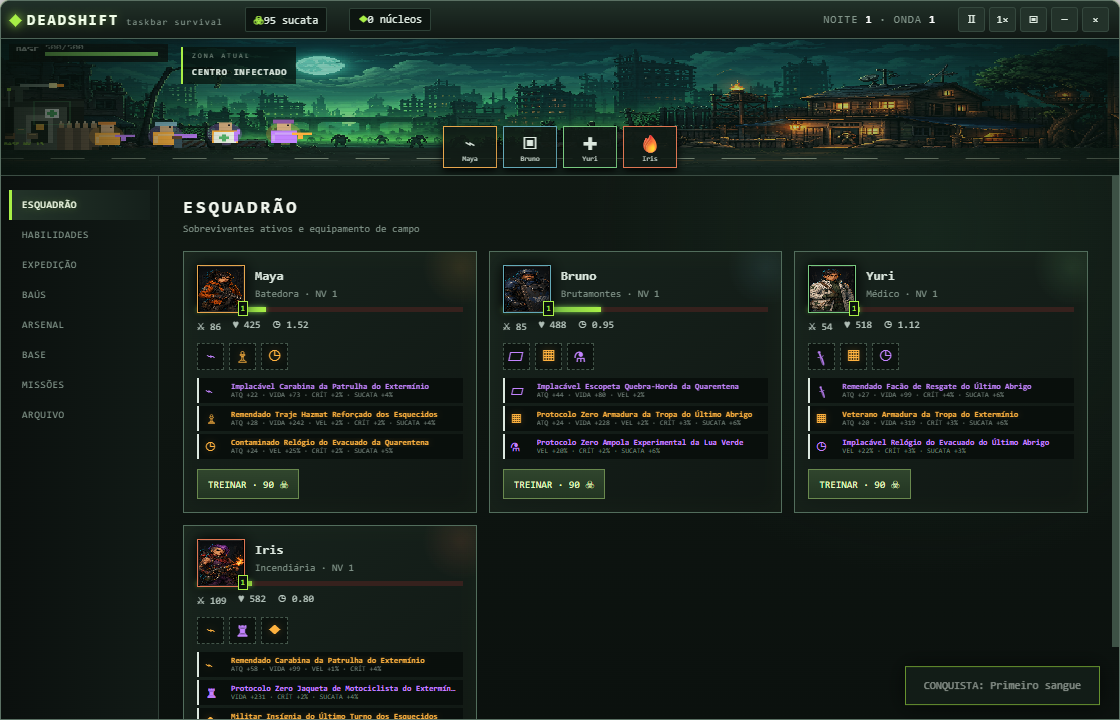
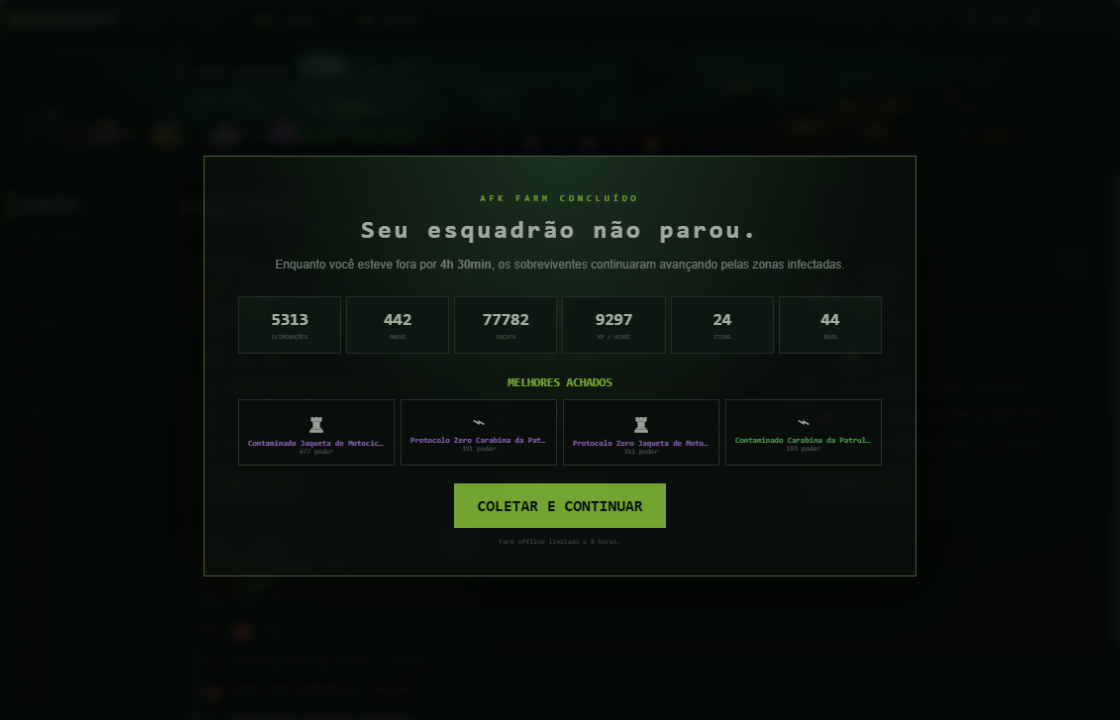
add complete offline farming

diff --git a/src/game.js b/src/game.js
@@ -66,7 +66,10 @@ else p.innerHTML=`<h2>ARQUIVO DA QUARENTENA</h2><div class="two-col"><div><h3>ES
 function openChest(tier){if(!S.chests[tier])return;S.chests[tier]--;let amount=tier==='outbreak'?4:tier==='military'?3:2,items=[];for(let n=0;n<amount;n++){let item=LootSystem.generate({level:S.night*3+S.wave,pity:tier==='military'?10:0,boss:tier==='outbreak'});S.inventory.unshift(item);items.push(item)}S.inventory=S.inventory.slice(0,60);renderPanel('chests');let result=$('#chest-result');result.innerHTML=`<div class="chest-reveal"><h3>CONTEÚDO RECUPERADO</h3>${items.map((i,n)=>`<div class="reveal-item rarity-${i.rarity}" style="animation-delay:${n*.16}s"><span>${i.icon}</span><b class="${i.rarity}">${i.name}</b><small>${i.power} poder · ${i.rarityLabel}</small></div>`).join('')}</div>`;toast(`${amount} itens adicionados ao arsenal`)}
 function bindPanel(){document.querySelectorAll('[data-unlock]').forEach(b=>b.onclick=()=>{let h=heroes.find(x=>x.id===b.dataset.unlock);if(S.scrap>=h.cost){S.scrap-=h.cost;S.unlocked.push(h.id);S.selectedHero=h.id;renderAbilities();toast(`${h.name} entrou no esquadrão`);renderPanel()}});document.querySelectorAll('[data-level]').forEach(b=>b.onclick=()=>{let h=heroes.find(x=>x.id===b.dataset.level),c=h.level*90;if(S.scrap>=c){S.scrap-=c;h.level++;h.atk+=2;h.maxHp+=12;h.hp=h.maxHp;S.skillPoints[h.id]=(S.skillPoints[h.id]||0)+1;renderPanel()}});document.querySelectorAll('[data-upgrade]').forEach(b=>b.onclick=()=>{let id=b.dataset.upgrade,c=(S.upgrades[id]+1)*350;if(S.scrap>=c){S.scrap-=c;S.upgrades[id]++;if(id==='walls'){S.maxBaseHp+=100;S.baseHp+=100}renderPanel()}});document.querySelectorAll('[data-select-hero]').forEach(b=>b.onclick=()=>{S.selectedHero=b.dataset.selectHero;renderPanel('arsenal')});document.querySelectorAll('[data-select-skill-hero]').forEach(b=>b.onclick=()=>{S.selectedHero=b.dataset.selectSkillHero;renderPanel('skills')});document.querySelectorAll('[data-buy-talent]').forEach(b=>b.onclick=()=>{let [h,n]=b.dataset.buyTalent.split(':');if(Progression.buyHero(S,h,n)){toast('Talento aprimorado');renderPanel('skills')}});document.querySelectorAll('[data-buy-exp]').forEach(b=>b.onclick=()=>{if(Progression.buyExpedition(S,b.dataset.buyExp)){toast('Rota de expedição desbloqueada');renderPanel('expedition')}});document.querySelectorAll('[data-open-chest]').forEach(b=>b.onclick=()=>openChest(b.dataset.openChest));document.querySelectorAll('[data-equip]').forEach(b=>b.onclick=()=>{let item=S.inventory.find(i=>i.id===b.dataset.equip),set=S.equipped[S.selectedHero];if(!item||!set)return;if(set[item.slot]===item.id){set[item.slot]=null;toast(`${item.name} removido`)}else{set[item.slot]=item.id;toast(`${item.name} equipado`)}renderPanel('arsenal')});document.querySelectorAll('[data-scrap]').forEach(b=>b.onclick=()=>{let i=S.inventory.find(x=>String(x.id)===b.dataset.scrap);if(!i||Object.values(S.equipped).some(set=>Object.values(set).includes(i.id)))return;S.scrap+=Number(i.salvage||8);S.inventory=S.inventory.filter(x=>x!==i);toast(`Item reciclado · +${i.salvage||8} sucata`);renderPanel('arsenal')});document.querySelectorAll('[data-claim]').forEach(b=>b.onclick=()=>{let id=b.dataset.claim;if(id==='boss1')S.cores++;else S.scrap+=+b.dataset.reward;S.missions[id]=0;renderPanel()});let r=document.querySelector('[data-repair]');if(r)r.onclick=()=>{let c=Math.ceil((S.maxBaseHp-S.baseHp)*.25);if(S.scrap>=c){S.scrap-=c;S.baseHp=S.maxBaseHp;renderPanel()}}}
 document.querySelectorAll('nav button').forEach(b=>b.onclick=()=>{document.querySelectorAll('nav button').forEach(x=>x.classList.remove('active'));b.classList.add('active');renderPanel(b.dataset.tab)});$('#expand').onclick=()=>{S.expanded=!S.expanded;document.body.className=S.expanded?'expanded':'compact';window.desktop?.mode(S.expanded?'expanded':'compact');$('#expand').textContent=S.expanded?'▾':'▣';if(S.expanded)renderPanel()};$('#pause').onclick=()=>{S.paused=!S.paused;$('#pause').textContent=S.paused?'▶':'Ⅱ'};$('#speed').onclick=()=>{S.speed=S.speed===1?2:S.speed===2?3:1;$('#speed').textContent=S.speed+'×'};$('#minimize').onclick=()=>window.desktop?.minimize();$('#close').onclick=()=>{save();window.desktop?.close()};
-let away=Math.min(8*3600,Math.max(0,(Date.now()-S.lastSeen)/1000));if(away>60){let gain=Math.floor(away/10*(4+S.night)*(1+(expeditionBonus().offline||0)));S.scrap+=gain;setTimeout(()=>toast(`Coleta offline: +${gain} sucata`),800)}
+function teamPower(){return activeHeroes().reduce((sum,h)=>{let g=heroGear(h),b=heroBonus(h);return sum+(h.atk+b.attack)*(h.rate+b.rate)+h.maxHp*.04+g.reduce((n,i)=>n+i.power*.025,0)},0)}
+function applyOfflineFarm(){let result=OfflineSystem.simulate({seconds:(Date.now()-S.lastSeen)/1000,power:teamPower(),night:S.night,wave:S.wave,heroCount:activeHeroes().length,offlineBonus:expeditionBonus().offline||0});if(!result.eligible)return;S.scrap+=result.scrap;S.kills+=result.kills;S.missions.kill50+=result.kills;S.missions.waves10+=result.waves;S.bosses+=result.bosses;S.missions.boss1+=result.bosses;S.expeditionPoints+=result.expeditionPoints;S.night=result.endNight;S.wave=result.endWave;activeHeroes().forEach(h=>{h.xp+=result.xpEach;while(h.xp>=h.level*100){h.xp-=h.level*100;h.level++;h.atk+=2;h.maxHp+=12;h.hp=h.maxHp;S.skillPoints[h.id]=(S.skillPoints[h.id]||0)+1}});let found=[];for(let i=0;i<result.drops;i++){let item=LootSystem.generate({level:S.night*3+S.wave,pity:Math.min(15,S.lootPity+i),boss:i<result.bosses});S.inventory.unshift(item);found.push(item)}S.inventory=S.inventory.slice(0,60);if(result.chests){S.chests.field+=result.chests;S.chests.military+=Math.floor(result.chests/3)}showOfflineReport(result,found)}
+function showOfflineReport(r,items){let box=$('#offline-report'),best=[...items].sort((a,b)=>b.power-a.power).slice(0,4);box.innerHTML=`<div class="offline-modal"><span class="offline-signal">AFK FARM CONCLUÍDO</span><h2>Seu esquadrão não parou.</h2><p>Enquanto você esteve fora por <b>${OfflineSystem.formatDuration(r.elapsed)}</b>, os sobreviventes continuaram avançando pelas zonas infectadas.</p><div class="offline-stats"><span><b>${r.kills}</b><small>ELIMINAÇÕES</small></span><span><b>${r.waves}</b><small>ONDAS</small></span><span><b>${r.scrap}</b><small>SUCATA</small></span><span><b>${r.xpEach}</b><small>XP / HERÓI</small></span><span><b>${r.drops}</b><small>ITENS</small></span><span><b>${r.chests}</b><small>BAÚS</small></span></div>${best.length?`<h3>MELHORES ACHADOS</h3><div class="offline-loot">${best.map(i=>`<span class="rarity-${i.rarity}"><i>${i.icon}</i><b class="${i.rarity}">${i.name}</b><small>${i.power} poder</small></span>`).join('')}</div>`:''}<button id="claim-offline">COLETAR E CONTINUAR</button><em>Farm offline limitado a 8 horas.</em></div>`;box.classList.add('show');$('#claim-offline').onclick=()=>{box.classList.remove('show');setTimeout(()=>box.innerHTML='',250);save()}}
 window.__seedVisualTest=()=>{window.__visualTestActive=true;S.upgrades={walls:4,turret:3,scavenger:3,medbay:3};S.unlocked=heroes.map(h=>h.id);for(const h of heroes){for(const slot of ['weapon','armor','charm']){let item;do{item=LootSystem.generate({level:18,pity:12,boss:true})}while(item.slot!==slot);S.inventory.unshift(item);S.equipped[h.id][slot]=item.id}}renderAbilities();renderPanel('squad')};
-function loop(now){let dt=Math.min(.05,(now-last)/1000);last=now;update(dt);draw();renderTop();autosave+=dt;if(autosave>10&&!window.__visualTestActive){save();autosave=0}requestAnimationFrame(loop)}startWave();renderPanel();renderAbilities();requestAnimationFrame(loop);window.addEventListener('beforeunload',()=>{if(!window.__visualTestActive)save()});
+window.__showOfflineTest=()=>{let r=OfflineSystem.simulate({seconds:4.5*3600,power:180,night:4,wave:3,heroCount:4,offlineBonus:.2}),items=Array.from({length:6},(_,i)=>LootSystem.generate({level:22,pity:10+i,boss:i<2}));showOfflineReport(r,items)};
+function loop(now){let dt=Math.min(.05,(now-last)/1000);last=now;update(dt);draw();renderTop();autosave+=dt;if(autosave>10&&!window.__visualTestActive){save();autosave=0}requestAnimationFrame(loop)}applyOfflineFarm();startWave();renderPanel();renderAbilities();requestAnimationFrame(loop);window.addEventListener('beforeunload',()=>{if(!window.__visualTestActive)save()});
 })();

diff --git a/src/style.css b/src/style.css
@@ -2,3 +2,4 @@
 #stage-label{position:absolute;z-index:3;left:180px;top:8px;background:#07100bbd;border-left:2px solid var(--acid);padding:5px 9px;pointer-events:none}#stage-label small{display:block;color:#72867a;font-size:7px;letter-spacing:2px}#stage-label b{font-size:9px;letter-spacing:1px}#ability-bar{position:absolute;z-index:4;left:50%;bottom:7px;display:flex;gap:6px;transform:translateX(-50%)}#ability-bar button{width:54px;height:42px;position:relative;overflow:hidden;border:1px solid var(--hero);background:#101a15e8;cursor:pointer;padding:2px;box-shadow:0 3px 9px #000}#ability-bar button>span{position:relative;z-index:2;font-size:18px}#ability-bar button>small{position:relative;z-index:2;display:block;font-size:7px;color:#c4d2c9}#ability-bar button>i{position:absolute;z-index:1;left:0;right:0;bottom:0;background:#020604c9;pointer-events:none}#ability-bar button:not(.cooldown):hover{transform:translateY(-3px);box-shadow:0 0 12px var(--hero)}#ability-bar button.cooldown{filter:grayscale(.7)}.skill-layout{display:grid;grid-template-columns:.85fr 1.3fr;gap:18px}.active-skills{display:grid;gap:8px;align-content:start}.skill-card{display:flex;gap:12px;border:1px solid #35483d;background:#121d18;padding:12px}.skill-card>span{display:grid;place-items:center;width:44px;height:44px;background:#23372b;border:1px solid #66804c;font-size:22px}.skill-card b,.skill-card small,.skill-card em{display:block}.skill-card small{font-size:9px;color:var(--muted);margin:5px 0}.skill-card em{font-size:7px;color:var(--acid);font-style:normal}.talent-tree{position:relative;padding-left:25px}.talent-tree:before{content:'';position:absolute;left:42px;top:20px;bottom:25px;width:2px;background:linear-gradient(var(--acid),#35473d)}.talent-node{position:relative;z-index:1;display:grid;grid-template-columns:34px 1fr auto;gap:10px;align-items:center;margin:0 0 10px calc(var(--x)*.25);border:1px solid #304138;background:#0d1511;padding:8px}.talent-node>i{display:grid;place-items:center;width:30px;height:30px;border:1px solid #526358;background:#18231e;font-style:normal}.talent-node.learned>i{border-color:var(--acid);color:var(--acid);box-shadow:0 0 9px #a8ef4638}.talent-node b,.talent-node small,.talent-node em{display:block}.talent-node small{font-size:8px;color:var(--muted)}.talent-node em{font-size:7px;color:#65776d;font-style:normal}.talent-node button,.exp-node button,.chest button{border:1px solid #5f7b48;background:#263a26;color:#dfffbb;padding:7px;font-size:8px;cursor:pointer}.talent-node button:disabled,.exp-node button:disabled,.chest button:disabled{opacity:.25}.expedition-tree{display:grid;grid-template-columns:repeat(4,1fr);gap:12px;position:relative}.exp-node{min-height:145px;border:1px solid #35463d;background:linear-gradient(145deg,#17251d,#0d1511);display:flex;flex-direction:column;align-items:center;text-align:center;padding:13px}.exp-node>span{display:grid;place-items:center;width:43px;height:43px;border-radius:50%;border:1px solid #4c6155;font-size:20px;margin-bottom:8px}.exp-node.learned>span{color:var(--acid);border-color:var(--acid);box-shadow:0 0 14px #a8ef4630}.exp-node small{color:var(--muted);font-size:8px;margin:5px 0}.exp-node em{font-style:normal;color:#65776d;font-size:7px;margin-bottom:10px}.exp-node button{margin-top:auto}.chest-room{display:grid;grid-template-columns:repeat(3,1fr);gap:16px}.chest{text-align:center;border:1px solid #35473d;background:radial-gradient(circle at 50% 25%,#2a3d30,#0d1511 65%);padding:25px 16px}.chest>span{display:block;font-size:60px;color:#9aa89f;filter:drop-shadow(0 7px 5px #000)}.chest.military>span{color:#70bfff}.chest.outbreak>span{color:#ffb43e;text-shadow:0 0 15px #ff941f}.chest p{color:var(--muted);font-size:9px}.chest>b{display:block;font-size:10px;margin:13px}.chest button{padding:9px 20px}.chest-reveal{margin-top:18px;display:flex;gap:8px}.chest-reveal h3{width:130px}.reveal-item{flex:1;opacity:0;transform:translateY(15px);animation:reveal .5s forwards;border:1px solid #3b4c42;background:#121d18;padding:9px;text-align:center}.reveal-item>span{font-size:25px}.reveal-item b,.reveal-item small{display:block;font-size:8px}.reveal-item small{color:var(--muted)}@keyframes reveal{to{opacity:1;transform:none}}nav button{padding:9px 10px;font-size:10px}
 .hero-card .portrait{background-image:url('../assets/deadshift-heroes-v2.png');background-size:400% 100%;background-repeat:no-repeat;font-size:0}.hero-card:nth-child(1) .portrait{background-position:0 0}.hero-card:nth-child(2) .portrait{background-position:33.333% 0}.hero-card:nth-child(3) .portrait{background-position:66.666% 0}.hero-card:nth-child(4) .portrait{background-position:100% 0}.hero-card .portrait span{font-size:8px}
 .equipped-list{clear:both;margin-top:8px;display:grid;gap:3px}.equipped-list>span{display:grid;grid-template-columns:20px 1fr;gap:0 6px;align-items:center;border-left:2px solid currentColor;background:#090f0c;padding:4px 6px}.equipped-list i{grid-row:1/3;font-style:normal;font-size:13px}.equipped-list b{font-size:8px;white-space:nowrap;overflow:hidden;text-overflow:ellipsis}.equipped-list small{font-size:7px;color:#718078;white-space:nowrap;overflow:hidden;text-overflow:ellipsis}.equipped-list em{font-size:7px;color:#54635a;border:1px dashed #293830;padding:5px;font-style:normal}.hero-card:has(.equipped-list>span){box-shadow:inset 0 0 22px #a8ef4608}
+#offline-report{position:fixed;z-index:50;inset:0;display:none;place-items:center;background:#020604df;backdrop-filter:blur(5px)}#offline-report.show{display:grid}.offline-modal{width:min(720px,90vw);border:1px solid #66834f;background:radial-gradient(circle at 50% 0,#24432d,#0b120e 55%);box-shadow:0 0 60px #000;padding:30px 34px;text-align:center;animation:offlineIn .35s ease-out}.offline-signal{color:var(--acid);font-size:9px;letter-spacing:4px}.offline-modal h2{font-size:25px;margin:10px}.offline-modal>p{font:12px/1.6 Arial,sans-serif;color:#9aaba1}.offline-stats{display:grid;grid-template-columns:repeat(6,1fr);gap:5px;margin:22px 0}.offline-stats span{background:#111c16;border:1px solid #2e4136;padding:12px 4px}.offline-stats b,.offline-stats small{display:block}.offline-stats b{font-size:17px;color:#efffe7}.offline-stats small{font-size:6px;color:#74847b;margin-top:4px}.offline-loot{display:grid;grid-template-columns:repeat(4,1fr);gap:6px;margin:10px 0 18px}.offline-loot>span{border:1px solid #35473c;background:#0a110d;padding:9px;min-width:0}.offline-loot i,.offline-loot b,.offline-loot small{display:block}.offline-loot i{font-style:normal;font-size:22px}.offline-loot b{font-size:8px;white-space:nowrap;overflow:hidden;text-overflow:ellipsis}.offline-loot small{font-size:7px;color:#718078}.offline-modal>button{border:1px solid #a8ef46;background:#a8ef46;color:#0a110c;font-weight:bold;padding:12px 22px;cursor:pointer}.offline-modal>button:hover{background:#c6ff79}.offline-modal>em{display:block;margin-top:10px;color:#58685e;font-size:7px;font-style:normal}@keyframes offlineIn{from{opacity:0;transform:translateY(20px) scale(.97)}to{opacity:1;transform:none}}

diff --git a/site/index.html b/site/index.html
@@ -1,6 +1,6 @@
 <!doctype html><html lang="pt-BR"><head><meta charset="utf-8"><meta name="viewport" content="width=device-width,initial-scale=1"><meta name="theme-color" content="#07100c"><meta name="description" content="Deadshift: um RPG idle zumbi que vive junto à barra de tarefas do Windows."><title>Deadshift — Taskbar Survival</title><link rel="stylesheet" href="style.css"></head>
 <body><header><a class="logo" href="#">◆ DEADSHIFT 2.0</a><nav><a href="#features">RECURSOS</a><a href="#loot">HABILIDADES</a><a href="https://github.com/Junior4412/deadshift-taskbar-survival" target="_blank">GITHUB</a></nav></header>
-<main><section class="hero"><img src="deadshift-cover.png" alt="Sobreviventes defendendo um abrigo de uma horda de zumbis"><div class="shade"></div><div class="hero-copy"><span class="eyebrow">VERSÃO 2.1 · RPG IDLE PARA WINDOWS</span><h1>O fim do mundo<br><em>cabe na sua barra.</em></h1><p>Veja armas e armaduras nos personagens, transforme o abrigo, acione habilidades e construa talentos enquanto trabalha.</p><div class="actions"><a class="download" href="https://github.com/Junior4412/deadshift-taskbar-survival/releases/latest/download/Deadshift-Taskbar-Survival.exe">↓ BAIXAR PARA WINDOWS</a><a class="ghost" href="#features">VER O JOGO</a></div><small>Windows 10/11 · x64 · Gratuito · Salvamento local</small></div></section>
-<section id="features" class="section"><div class="section-title"><span>PROTOCOLO DE SOBREVIVÊNCIA</span><h2>Pequeno na tela.<br>Agora muito mais vivo.</h2></div><div class="features"><article><b>01</b><h3>EXPLORE QUATRO ZONAS</h3><p>O grupo caminha por centro urbano, rodovia de evacuação, metrô inundado e distrito em chamas.</p></article><article><b>02</b><h3>12 HABILIDADES ÚNICAS</h3><p>Ative ataques especiais enquanto cada sobrevivente usa automaticamente suas técnicas de suporte e controle.</p></article><article><b>03</b><h3>ÁRVORES E BAÚS</h3><p>Invista em talentos individuais, rotas de expedição e abra três categorias de baús com loot progressivo.</p></article></div></section>
+<main><section class="hero"><img src="deadshift-cover.png" alt="Sobreviventes defendendo um abrigo de uma horda de zumbis"><div class="shade"></div><div class="hero-copy"><span class="eyebrow">VERSÃO 2.2 · RPG IDLE PARA WINDOWS</span><h1>O fim do mundo<br><em>cabe na sua barra.</em></h1><p>Seu esquadrão continua farmando por até oito horas — mesmo quando você fecha o jogo.</p><div class="actions"><a class="download" href="https://github.com/Junior4412/deadshift-taskbar-survival/releases/latest/download/Deadshift-Taskbar-Survival.exe">↓ BAIXAR PARA WINDOWS</a><a class="ghost" href="#features">VER O JOGO</a></div><small>Windows 10/11 · x64 · Gratuito · Salvamento local</small></div></section>
+<section id="features" class="section"><div class="section-title"><span>PROTOCOLO DE SOBREVIVÊNCIA</span><h2>Pequeno na tela.<br>Trabalhando sempre.</h2></div><div class="features"><article><b>01</b><h3>FARM AFK COMPLETO</h3><p>Receba sucata, experiência, níveis, ondas, equipamentos e baús por até oito horas longe do jogo.</p></article><article><b>02</b><h3>12 HABILIDADES ÚNICAS</h3><p>Ative ataques especiais enquanto cada sobrevivente usa automaticamente suas técnicas de suporte e controle.</p></article><article><b>03</b><h3>ÁRVORES E BAÚS</h3><p>Invista em talentos individuais, rotas de expedição e abra três categorias de baús com loot progressivo.</p></article></div></section>
 <section id="loot" class="showcase"><div class="screen"><img src="game-ui.png" alt="Árvore de habilidades do Deadshift 2.0"><i></i></div><div class="showcase-copy"><span class="eyebrow">ESPECIALIZE SEU ESQUADRÃO</span><h2>Quatro pessoas. Quatro estilos.</h2><p>Maya combina dano e velocidade; Bruno segura a linha; Yuri cura e acelera aliados; Iris domina hordas com fogo e controle.</p><ul><li>Cinco talentos escaláveis por sobrevivente</li><li>Habilidades manuais e automáticas</li><li>Árvore de expedição permanente</li><li>Armas, proteções e amuletos com cinco raridades</li></ul></div></section>
 <section class="cta"><span>O TURNO DA NOITE COMEÇOU</span><h2>Quanto tempo seu abrigo aguenta?</h2><a class="download" href="https://github.com/Junior4412/deadshift-taskbar-survival/releases/latest/download/Deadshift-Taskbar-Survival.exe">↓ BAIXAR DEADSHIFT</a></section></main><footer><span>DEADSHIFT: TASKBAR SURVIVAL</span><span>Projeto independente · 2026</span></footer></body></html>

diff --git a/main.js b/main.js
@@ -15,7 +15,7 @@ function createWindow() {
   win = new BrowserWindow({
     ...sizes.compact, frame: false, transparent: true, resizable: false, alwaysOnTop: true,
     skipTaskbar: false, show: false, backgroundColor: '#00000000',
-    webPreferences: { preload: path.join(__dirname, 'preload.js'), contextIsolation: true }
+    webPreferences: { preload: path.join(__dirname, 'preload.js'), contextIsolation: true, backgroundThrottling: false }
   });
   win.loadFile(path.join(__dirname, 'src', 'index.html'));
   win.once('ready-to-show', async () => {
@@ -23,7 +23,7 @@ function createWindow() {
     place(visualTest ? 'expanded' : 'compact'); win.show();
     if (visualTest) {
       setTimeout(async () => {
-        await win.webContents.executeJavaScript("document.body.className='expanded'; document.querySelector('#dashboard').style.display='flex'; document.querySelector('#combat').style.height='137px'; window.__seedVisualTest?.(); document.querySelector('[data-tab=squad]')?.click()").catch(()=>{});
+        await win.webContents.executeJavaScript("document.body.className='expanded'; document.querySelector('#dashboard').style.display='flex'; document.querySelector('#combat').style.height='137px'; window.__seedVisualTest?.(); document.querySelector('[data-tab=squad]')?.click(); window.__showOfflineTest?.()").catch(()=>{});
         await new Promise(resolve => setTimeout(resolve, 300));
         const png = (await win.webContents.capturePage()).toPNG();
         fs.writeFileSync(path.join(__dirname, 'outputs', 'visual-test.png'), png);

diff --git a/src/offline-system.js b/src/offline-system.js
@@ -1,0 +1,17 @@
+(function(root,factory){const api=factory();if(typeof module==='object'&&module.exports)module.exports=api;else root.OfflineSystem=api})(typeof globalThis!=='undefined'?globalThis:this,function(){
+const MAX_SECONDS=8*60*60;
+function simulate({seconds=0,power=10,night=1,wave=1,heroCount=1,offlineBonus=0}={}){
+  const elapsed=Math.max(0,Math.min(MAX_SECONDS,Number(seconds)||0));
+  if(elapsed<60)return{elapsed,eligible:false,kills:0,waves:0,bosses:0,scrap:0,xpEach:0,drops:0,chests:0,expeditionPoints:0,endWave:wave,endNight:night};
+  const required=18+night*12+wave*2,efficiency=Math.max(.25,Math.min(1.6,power/required));
+  const kills=Math.floor(elapsed/60*(3.5+heroCount*2.2)*efficiency);
+  const waves=Math.floor(kills/Math.max(8,13-night*.25));
+  const totalWave=(wave-1)+waves,bosses=Math.floor(totalWave/10),endNight=night+bosses,endWave=totalWave%10+1;
+  const scrap=Math.floor(kills*(5+night*1.8)*(1+offlineBonus));
+  const xpEach=Math.floor(kills*7/Math.max(1,heroCount));
+  const drops=Math.min(24,Math.floor(kills*.035)+bosses*2);
+  return{elapsed,eligible:true,kills,waves,bosses,scrap,xpEach,drops,chests:bosses,expeditionPoints:bosses,endWave,endNight};
+}
+function formatDuration(seconds){let h=Math.floor(seconds/3600),m=Math.floor(seconds%3600/60);return h?`${h}h ${m}min`:`${m}min`}
+return{MAX_SECONDS,simulate,formatDuration};
+});

diff --git a/tests/offline-system.test.js b/tests/offline-system.test.js
@@ -1,0 +1,6 @@
+const test=require('node:test');const assert=require('node:assert/strict');const O=require('../src/offline-system');
+test('não concede progresso com menos de um minuto',()=>{assert.equal(O.simulate({seconds:59}).eligible,false)});
+test('limita o farm AFK a oito horas',()=>{assert.equal(O.simulate({seconds:99*3600}).elapsed,8*3600)});
+test('concede todos os recursos do farm',()=>{let r=O.simulate({seconds:3600,power:100,night:2,wave:5,heroCount:3});assert.ok(r.kills>0);assert.ok(r.waves>0);assert.ok(r.scrap>0);assert.ok(r.xpEach>0);assert.ok(r.drops>0)});
+test('mais poder aumenta o resultado',()=>{let low=O.simulate({seconds:3600,power:10}),high=O.simulate({seconds:3600,power:100});assert.ok(high.kills>low.kills)});
+test('progresso mantém onda entre 1 e 10',()=>{let r=O.simulate({seconds:28800,power:500,night:5,wave:9,heroCount:4});assert.ok(r.endWave>=1&&r.endWave<=10);assert.ok(r.endNight>=5)});

diff --git a/src/index.html b/src/index.html
@@ -22,5 +22,5 @@
       <div id="panel"></div>
     </section>
   </main>
-  <div id="toast"></div><script src="loot-system.js"></script><script src="progression-system.js"></script><script src="game.js"></script>
+  <div id="offline-report"></div><div id="toast"></div><script src="loot-system.js"></script><script src="progression-system.js"></script><script src="offline-system.js"></script><script src="game.js"></script>
 </body></html>

diff --git a/README.md b/README.md
@@ -21,6 +21,8 @@ RPG idle original de sobrevivência zumbi para Windows, projetado para permanece
 - Três categorias de baús com abertura animada
 - Equipamentos visíveis diretamente nos personagens durante o combate
 - Abrigo evolutivo: muralhas, torre, enfermaria e coleta alteram sua aparência
+- Farm AFK de até 8 horas com sucata, XP, níveis, ondas, itens e baús
+- Combate contínuo mesmo com a janela minimizada
 
 ## Executar
 
